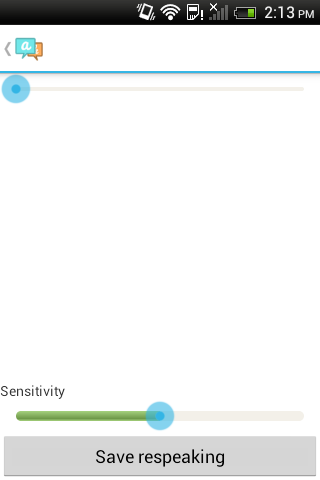
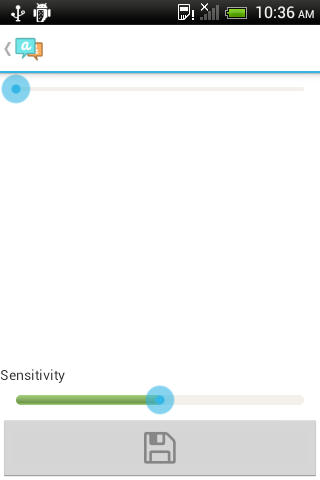
Update changes from Beta13 to Beta 14
These edits bring the How To doc up to date with Beta 14. Changes
include (relating to issue numbers):

#113 - now says it takes you to this page

# 145 picture of Voice Activated Commentary screen updated to reflect
change of save button to icon.

# 120  language selection for a recording is now opt in

#147 beep at end of voice activated commentary noted

Also, removed information on audio-recognising box, including removing
images.

Changed region(s): [[0.0, 0.75, 1.0, 0.9688], [0.4062, 0.0, 0.9688, 0.0625], [0.0312, 0.0, 0.1562, 0.0625]]

diff --git a/aikuma/howto.md b/aikuma/howto.md
@@ -51,7 +51,7 @@ You can record in one of two different ways.
 
 To stop recording either press the pause button or lower the phone from your ear. You will be able to see how long the recording is at the top of the screen. You can continue the recording again using either of the two options. 
 
-If you don't want to make a recording, of you've made a recording that you do not want to keep press either the back button or the Aikuma homepage button. This will take you back to the [main screen](#Main).
+If you don't want to make a recording, of you've made a recording that you do not want to keep press either the back button or the Aikuma homepage button. This will ask you to discard the recording and take you back to the [main screen](#Main).
 
 Once your recording is complete press the save button. This is the image of the disk above the recording button. This will take you into the save screen:
 
@@ -65,7 +65,7 @@ At the top you can listen back to the recording by pressing play. You can stop t
 
 To save a recording you must add at least one speaker. Do this by pressing on the user image. This will take you to the [user screen](#Users). You can select one of the users already in your list, or create a new user (this is explained [here](#Users)).You can add more than one speaker.
 
-After you have added at least one speaker choose what languages are spoken in the recording. All of the languages listed for the person or persons you have added will appear in the list with ticks next to each one. Untick the languages that do not appear in the recording.
+After you have added at least one speaker choose what languages are spoken in the recording. All of the languages listed for the person or persons you have added will appear in the list. Tick the languages that are in the recording.
 
 Next you need to add a description for your recording. Click on the 'description' section and type in a basic title, for example "Jackal and Crow" or "when the village got electricity". 
 
@@ -111,20 +111,14 @@ The process for adding information about the saved recording is [the same as dis
 
 <a name="Voice"></a>
 ###Voice-activated Commentary###
-The second way of adding commentary is to use the Voice-activated commentary. When you enter this option a box will appear and fill with red or green, or move between the two. 
-
-![Sensitivity Meter](/images/HowTo/Sensitivity.png)
-<p class="clear"/>
-
-This box will remain while the the phone testing how noisy the environment is, so that it can recognise your voice. When this process is completed you will then see this screen.
-
+The second way of adding commentary is to use the Voice-activated commentary. 
 
 ![Voice Screen](/images/HowTo/VoiceCommentsScreen.png)
 <p class="clear"/>
 
 At the bottom of the screen is the voice sensitivity slider. When you start using the voice-activated commentary you may find that the phone does not stop the recording when you speak, which means the sensitivity is set too low. You may find that it keeps stopping even when you are quiet, which means the sensitivity is set too high. The sensitivity meter should have done a pretty good job of figuring our the setting, but you may need to move the blue dot along the sliding scale to adjust it. Moving the blue dot to the left will make it less sensitive, and moving it to the right will make it more sensitive.
 
-Now you can begin to make your recording. Hold the phone up to your ear and listen to the recording. At a convenient break start your translation, respeaking or commentary. The phone will recognise your voice input, stop the original recording and record your voice. When you stop talking the recording will go back a second or two and continue. Do this until the end of the recording, then press the save button. 
+Now you can begin to make your recording. Hold the phone up to your ear and listen to the recording. At a convenient break start your translation, respeaking or commentary. The phone will recognise your voice input, stop the original recording and record your voice. When you stop talking the recording will go back a second or two and continue. Do this until you hear the beep that signals the end of the recording, then press the save button. 
 
 The process for adding information about the saved recording is [the same as discussed above](#Save) for an original recording. Your recording will now appear in the list of recordings on the [main screen](#Main).
 
@@ -197,7 +191,7 @@ To go back to the [main screen](#Main) at any time press the Aikuma logo in the 
 Help 
 ----------
 
-In the current version of Aikuma the question mark 'Help' button at the top of the main screen takes you to the website. There will be a built in help screen in future versions of the application. 
+In the current version of Aikuma the question mark 'Help' button at the top of the main screen brings to you to this page of the website. There will be a built in help screen in future versions of the application. 
 
 <a name="Settings"></a>
 Settings 
